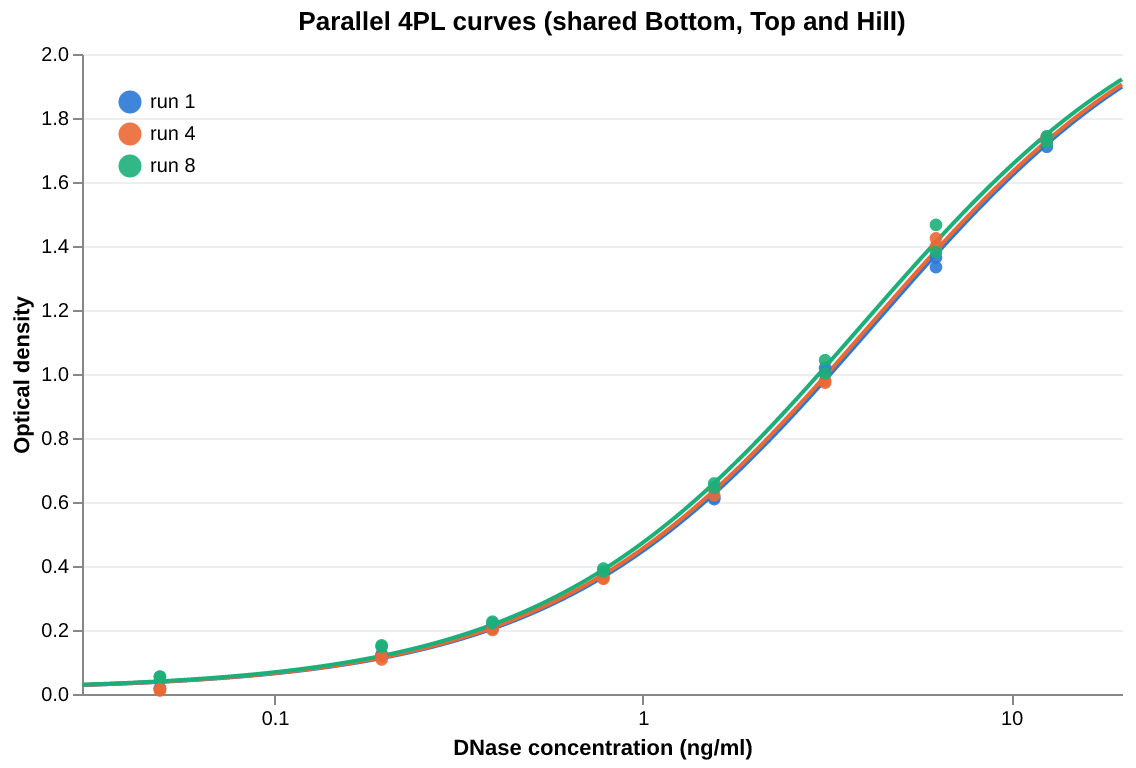
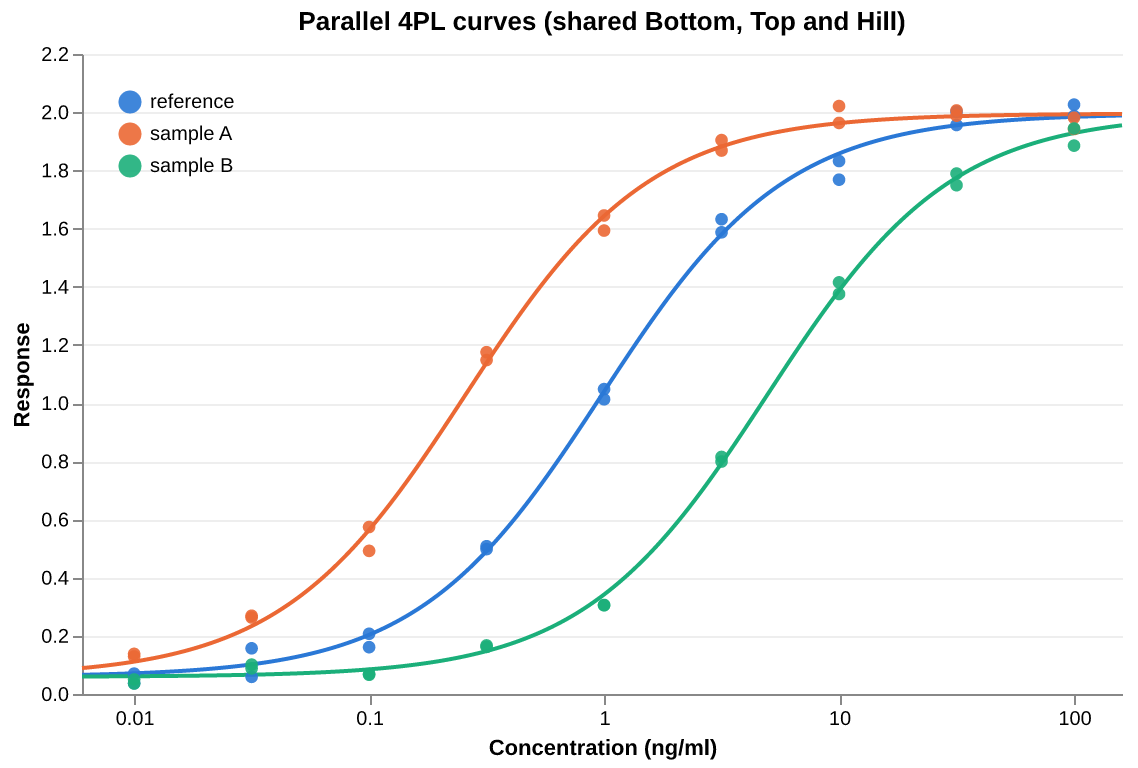
make diff between curves more obvious in example

diff --git a/README.md b/README.md
@@ -365,60 +365,66 @@ curves. Sharing Bottom, Top and Hill fits parallel curves that differ only in
 EC50, the usual model for a relative potency assay:
 
 ```nim
-import std/strformat
+import std/[math, strformat]
 import drc
 
-# R's DNase assay, runs 1, 4 and 8: duplicate wells at eight concentrations
-let conc = [0.04882812, 0.1953125, 0.390625, 0.78125, 1.5625, 3.125, 6.25, 12.5]
-let density = [0.017, 0.018, 0.121, 0.124, 0.206, 0.215, 0.377, 0.374,
-               0.614, 0.609, 1.019, 1.001, 1.334, 1.364, 1.73, 1.71,
-               0.011, 0.016, 0.118, 0.108, 0.2, 0.206, 0.364, 0.36,
-               0.62, 0.64, 0.979, 0.973, 1.424, 1.399, 1.74, 1.732,
-               0.054, 0.054, 0.152, 0.148, 0.226, 0.222, 0.392, 0.383,
-               0.658, 0.644, 1.043, 1.002, 1.466, 1.381, 1.743, 1.724]
+# Simulated potency assay: a reference standard and two test samples, each at
+# nine half-log concentrations (0.01 to 100 ng/ml) in duplicate. The samples
+# were simulated as 4× and 1/5× as potent as the reference.
+let response = [0.037, 0.07, 0.059, 0.157, 0.207, 0.161, 0.498, 0.508, 1.048,
+                1.013, 1.632, 1.587, 1.832, 1.768, 2.002, 1.956, 1.987, 2.026,
+                0.138, 0.129, 0.269, 0.263, 0.574, 0.492, 1.175, 1.148, 1.645,
+                1.593, 1.868, 1.904, 2.021, 1.963, 2.006, 1.988, 1.942, 1.981,
+                0.036, 0.05, 0.101, 0.088, 0.069, 0.066, 0.167, 0.162, 0.306,
+                0.305, 0.799, 0.815, 1.375, 1.415, 1.789, 1.749, 1.944, 1.885]
 var doses: seq[float]
 var curve: seq[int]  # which curve each observation belongs to
-for c in 0 .. 2:
-  for d in conc:
-    doses.add [d, d]
+for c in 0 .. 2:     # 0: reference, 1: sample A, 2: sample B
+  for k in 0 .. 8:
+    let dose = pow(10.0, -2.0 + 0.5 * float(k))
+    doses.add [dose, dose]
     curve.add [c, c]
 
-let parallel = fitLL4Multi(doses, density, curve, shared = {Bottom, Top, Hill})
-let separate = fitLL4Multi(doses, density, curve)
+let parallel = fitLL4Multi(doses, response, curve, shared = {Bottom, Top, Hill})
+let separate = fitLL4Multi(doses, response, curve)
 echo parallel.summary
 echo ""
 let t = fTest(parallel, separate)
 echo &"parallel vs separate curves: F = {t.f:.3f} on {t.df1} and {t.df2} df, p = {t.p:.3f}"
-let rp = parallel.relativePotency(0, 2)
-echo &"EC50 of run 1 / run 8: {rp.ratio:.3f} (95% CI {rp.ci.lower:.3f}–{rp.ci.upper:.3f})"
+for (c, name) in [(1, "A"), (2, "B")]:
+  # Potency relative to the reference is EC50(reference) / EC50(sample).
+  let rp = parallel.relativePotency(0, c)
+  echo &"potency of sample {name}: {rp.ratio:.2f}× the reference (95% CI {rp.ci.lower:.2f}–{rp.ci.upper:.2f})"
 ```
 
 ```
-4PL joint fit to 48 observations in 3 curves; shared: Bottom, Top, Hill
+4PL joint fit to 54 observations in 3 curves; shared: Bottom, Top, Hill
 
                 Estimate   Std.Error     Lower 95%     Upper 95%
-Bottom         0.0121531  0.00957145   -0.00716285     0.0314691
-Top              2.29602   0.0542247       2.18659       2.40545
-LogEC50[0]      0.626875   0.0225288      0.581410      0.672340
-LogEC50[1]      0.617693   0.0225725      0.572140      0.663246
-LogEC50[2]      0.595804   0.0226798      0.550034      0.641573
-Hill             1.00224   0.0303847      0.940919       1.06356
-EC50[0]          4.23521                   3.81426       4.70262
-EC50[1]          4.14661                   3.73370       4.60518
-EC50[2]          3.94279                   3.54841       4.38100
+Bottom         0.0590232   0.0105121     0.0378872     0.0801591
+Top              1.99553   0.0108034       1.97381       2.01725
+LogEC50[0]    -0.0103233   0.0155870    -0.0416630     0.0210164
+LogEC50[1]     -0.590799   0.0155616     -0.622087     -0.559510
+LogEC50[2]      0.693711   0.0155490      0.662448      0.724975
+Hill             1.10504   0.0283800       1.04798       1.16210
+EC50[0]         0.976510                  0.908525       1.04958
+EC50[1]         0.256567                  0.238733      0.275734
+EC50[2]          4.93982                   4.59672       5.30853
 
-Residual standard error: 0.0206314 on 42 degrees of freedom
-R²: 0.998922   AIC: -228.762   BIC: -215.663
-Stopped after 6 iterations: relative change in SSR below ftol
+Residual standard error: 0.0338013 on 48 degrees of freedom
+R²: 0.998349   AIC: -204.938   BIC: -191.016
+Stopped after 5 iterations: relative change in SSR below ftol
 
-parallel vs separate curves: F = 2.131 on 6 and 36 df, p = 0.074
-EC50 of run 1 / run 8: 1.074 (95% CI 1.033–1.117)
+parallel vs separate curves: F = 0.631 on 6 and 42 df, p = 0.705
+potency of sample A: 3.81× the reference (95% CI 3.49–4.16)
+potency of sample B: 0.20× the reference (95% CI 0.18–0.22)
 ```
 
-Here the F test finds no evidence against parallel curves (p = 0.074), so the
-shared-slope model is a fair basis for the potency ratio.
+Here the F test finds no evidence against parallel curves (p = 0.705), so the
+shared-slope model is a fair basis for the potency ratios. Both intervals
+contain the simulated values (4 and 0.2).
 
-![parallel 4PL curves fitted jointly to three DNase runs](docs/images/multi.png)
+![parallel 4PL curves fitted jointly to a reference and two test samples](docs/images/multi.png)
 
 - **`fit.curves[c]`** is curve c as an ordinary `DrcFit`, so `ec50`, `ecxCI`,
   `predict` and the bands work on it. Its covariance is curve c's block of the
@@ -429,7 +435,9 @@ shared-slope model is a fair basis for the potency ratio.
   parameter, it is that parameter's variance).
 - **`fitMulti(model, …)`** is `fitLL4Multi` and its siblings with the model
   given as an argument.
-- **`relativePotency(a, b, pct = 50)`** is ECx of curve a over ECx of curve b.
+- **`relativePotency(a, b, pct = 50)`** is ECx of curve a over ECx of curve b,
+  so `relativePotency(reference, sample)` is the sample's potency relative to
+  the reference.
   Its interval comes from the delta method on log10 of the ratio, using the
   joint covariance, so it is asymmetric. R drc's `EDcomp` uses the ratio scale
   by default, which gives a symmetric interval.
